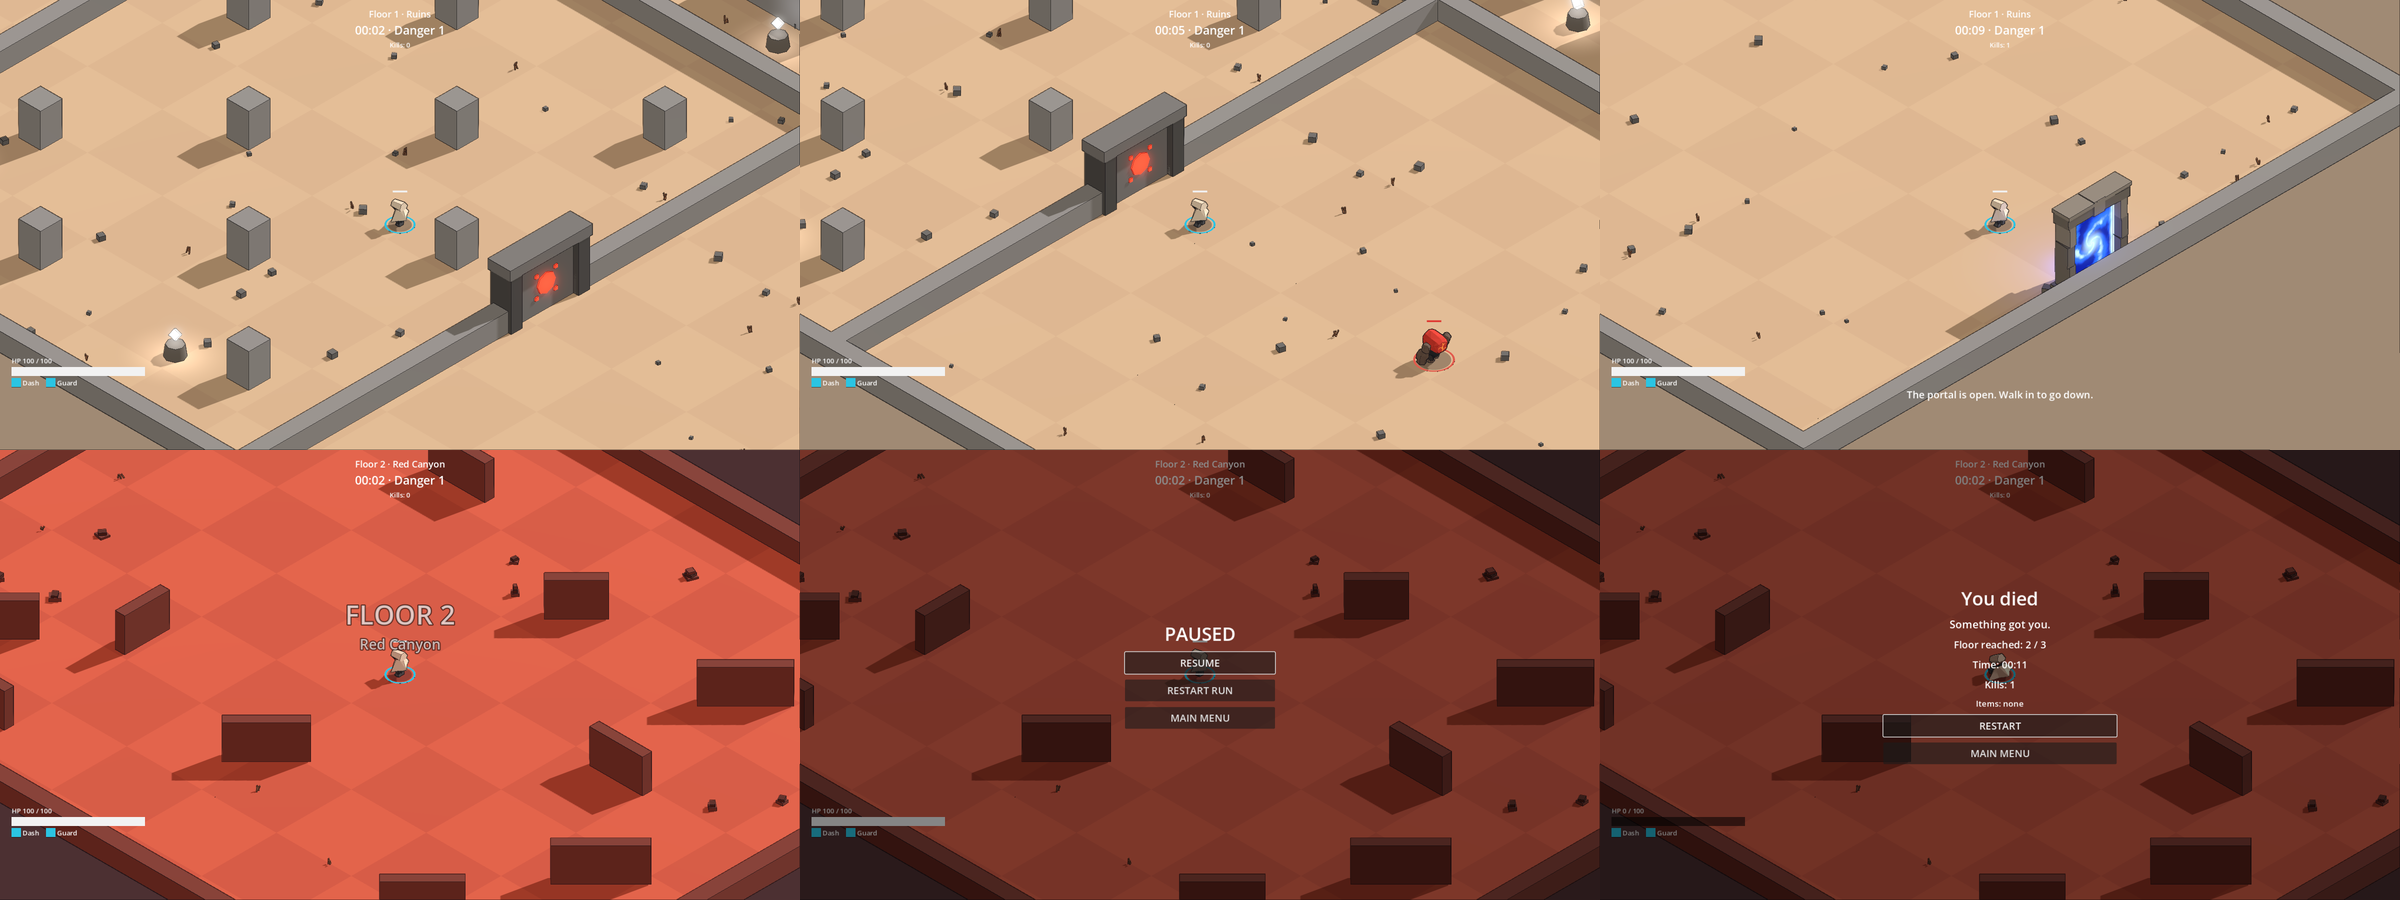
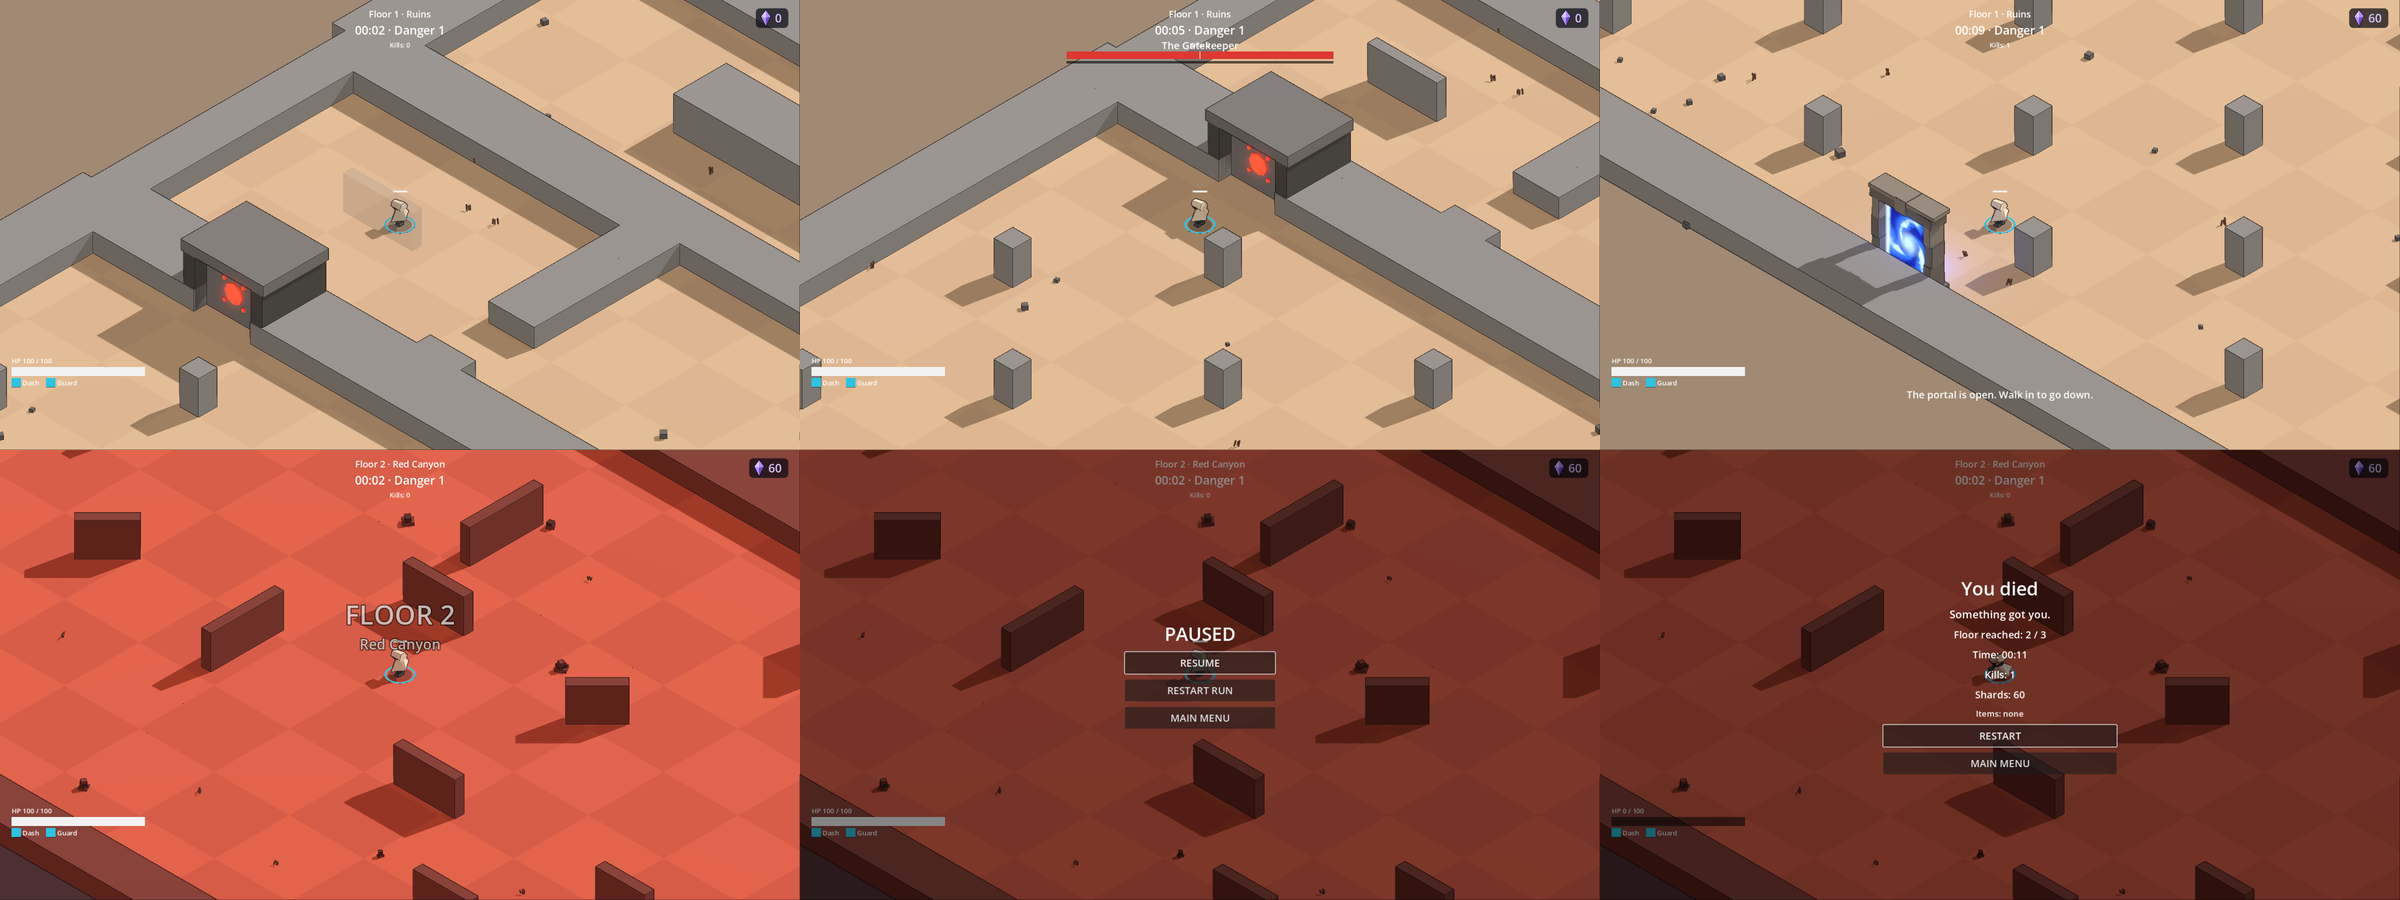
v0.3.0 Step B3: the run carries shards, items and combos; rewards and bosses per floor
Claude-Session: https://claude.ai/code/session_01Ybi1y9EcEtDzJ8CFycqiNq

diff --git a/docs/roadmap/v0.3.0/evidence/RUN_FLOW.md b/docs/roadmap/v0.3.0/evidence/RUN_FLOW.md
@@ -2,75 +2,94 @@
 
 Workstream B (owner lines L3–L4): a run of three floors, a sealed boss room off the farthest room, the portal
 that opens when the boss dies and takes you down, the floor HUD and title card, pause with Restart run, and the
-run recap. Built on the session branch from parent `0c44b40`; the commit that adds this file holds the code. The
-boss is C's: B codes against `World.spawn_boss` / `World.boss_alive` / `SimEvent.Kind.BOSS_DEFEATED`, with a
-stand-in (`src/sim/world/boss_stub.gd`, a Warden with ×12 HP) until C merges.
+run recap. This file covers the B commits on the session branch up to `v0.3.0 Step B3` (after merging A, N, G, C
+and E at `3161ae3`); the numbers below come from the working tree of that commit, Godot 4.7.2.stable.official,
+Linux cloud container, headless (timings are the container's, not the owner's hardware).
 
 Owner-only fields (feel, fun, whether the boss room reads as a boss room on their hardware): **OWNER ONLY**.
+
+## What B does now
+
+- **Run** (`src/sim/run/`): 3 floors (`data/run/three_floors.tres`); biome order shuffled per run (`biomes`
+  stream); floor 1 uses the run seed, floors 2–3 a seed derived from it; enemies and the floor's boss scaled
+  HP × (1 + 0.4 (f − 1)), damage × (1 + 0.2 (f − 1)) (bosses: every attack's damage; a boss's hatchlings and
+  turrets use the floor-scaled enemy tables); the danger tier restarts per floor.
+- **Carry** (`RunCarry.FIELDS`): `items_owned` (restored through `World.set_items_owned`: modifiers and combos, no
+  unlock events), `combos_owned`, `guard_charges`, `shards`; HP + 40 % of max, capped.
+- **Bosses (C's):** each floor draws its boss from its pool (`RunState.pick_boss`, a `boss_<f>` stream of the run
+  seed); the boss room takes the boss's arena (cells and template: Gatekeeper 3×3 pillars, Brood Mother 2×2
+  scatter, Siege Engine 3×1 lines). B's boss stub is deleted.
+- **Rewards (E's):** `FloorScenario.build(..., rewards, floor_index, arena, run, combos)`; altars and chests are
+  placed after the carry; the boss room has no item spots, so no reward stands in it; `World.floor_index` is set
+  per floor.
+- **Boss room** (`BossRoomBuilder`) follows A's wall-thickness model (see `WALLS.md`, "B2").
+- **Blink and the boss room:** `World.blink_may_land` — a blink may cross the boss room's boundary only through
+  the open doorway (a straight path that touches no wall), never while the door is sealed.
 
 ## Full suite
 
 ```
 $ bash scripts/verify.sh
 ...
-Totals
-------
-Scripts              67
-Tests               302
-Passing Tests       302
-Asserts           217576
-Time              127.436s
-
+Tests               466
+Passing Tests       466
+Asserts           402538
+Time              294.131s
 ---- All tests passed! ----
-
-Results saved to build/gut.xml
-check_gut_log: ok (302 passing, minimum 279)
+check_gut_log: ok (466 passing, minimum 436)
 ```
 
-From the same log, the boss-room builder over 200 seeds:
+From the same log:
 
 ```
-    boss rooms: 200 seeds, 164.9 ms per floor (generate + attach + checks), 5 hosted off another room
+    soak: 2 deaths, 11 hits, 5799 frames; nodes 372 -> 383
+    boss rooms: 200 seeds, 174.0 ms per floor (generate + attach + checks), 8 hosted off another room
 ```
 
-"5 hosted off another room": on 5 of 200 seeds no side of the farthest room had free cells for a 3 × 3 room, so
-the next farthest room hosts it (`BossRoomBuilder._hosts`).
-
-`tests/MIN_TEST_COUNT` raised from 279 to 302 after this run.
+"8 hosted off another room": on 8 of 200 seeds the farthest room had no side with free cells for a 3 × 3 room
+whose door fits, so the next farthest room hosts it. `tests/MIN_TEST_COUNT` 436 → 466.
 
 ## Lint
 
 ```
 $ gdformat --check src scripts tests && gdlint src scripts tests
-211 files would be left unchanged
+265 files would be left unchanged
 Success: no problems found
 ```
 
-## Export smoke
+## Export smoke and hitch probe
 
 ```
 $ bash scripts/ci/export_smoke.sh
 Export smoke check (exported pack)
   ok    running inside the exported pack (run from outside the project folder)
   ok    the main scene ships
-  ok    600-tick World run hash 921997d9e01c matches the project's
+  ok    600-tick World run hash 9c324d3dbf34 matches the project's
   ok    content player: 1
   ok    content biomes: 3
   ok    content validates inside the pack (0 errors)
-  ok    manifest hash b1a4ed8e89e8 matches the project's
+  ok    manifest hash de8d3c967621 matches the project's
   ok    Spanish translation is loaded
   ok    UI_PLAY is PLAY / JUGAR
   ok    the test framework is not shipped
   ok    tests are not shipped
 0 miss(es)
+$ godot --headless --path . -s scripts/checks/hitch_probe.gd
+hitch_probe: ticks after a 250 ms stall = 4 (limit 4, max seen 4), dash starts = 1 -> ok
 ```
 
 ## Goldens
 
-Unchanged. `tests/golden/fixtures/replay_ground_plane.json` and `export_smoke_hash.txt` both come from
-`KernelScenario`, which has no boss flow; the boss flow's state (and the floor number) is hashed only when a
-world has one, so the kernel hash did not move (the replay golden test passes, and the smoke hash above is still
-`921997d9e01c…`).
+Unchanged by B. Both come from `KernelScenario`, which has no boss flow (B's state is hashed only when a world has
+one):
+
+```
+$ godot --headless --path . -s tests/golden/generate_export_smoke_hash.gd
+GOLD| export_smoke_hash=9c324d3dbf34a7004e7649382382c67d592309bb2722342cf461afbc81fa17f2
+```
+
+Identical to `tests/golden/fixtures/export_smoke_hash.txt` (`git status tests/golden` clean); the replay fixture
+(final `5171fdad…`) was not regenerated and its test passes.
 
 ## Shots
 
@@ -86,24 +105,25 @@ run_flow: res://build/shots/v0.3.0/run_flow/6_run_recap.png
 run_flow: res://build/shots/v0.3.0/run_flow/run_flow_sheet.png 2400x900 ["1_boss_door_outside", "2_boss_door_sealed", "3_portal_active", "4_floor_2_title", "5_pause", "6_run_recap"]
 ```
 
-The sheet is [`run_flow.png`](run_flow.png) (a copy of `run_flow_sheet.png`, 566 KB). The shots were rendered
-before two later edits (gdformat's line wrapping, and `Main` taking a finished floor's nodes out of the tree at
-once so the next floor's HUD keeps the name `UI/Hud`); neither changes what is drawn.
-
-What the shots show (read by eye):
-1. Floor 1, Ruins: the boss door from 7.5 m outside — a stone slab between dark jambs under a lintel, red seal.
-2. Inside, the door shut behind you (seal lit), the stand-in boss (a Warden) up in the room.
-3. The boss dead: the gate's portal bright blue and swirling; the HUD note "The portal is open. Walk in to go down."
-4. Floor 2 (this seed: Red Canyon): the "FLOOR 2 / Red Canyon" card over the floor, the HUD line
-   "Floor 2 · Red Canyon".
+[`run_flow.png`](run_flow.png) is a copy of `run_flow_sheet.png` (581 KB). Read by eye:
+1. Floor 1, Ruins: the boss door from the host side — a stone slab with a red seal in a thick wall.
+2. Inside, the door shut behind you, the Gatekeeper's bar up ("The Gatekeeper"), the pillars arena. The boss's
+   body is not in this frame (it was rising or off-camera when the shot fired).
+3. The boss dead (60 shards paid, E): the gate's portal lit; the HUD note "The portal is open. Walk in to go down."
+4. Floor 2 (this seed: Red Canyon): the "FLOOR 2 / Red Canyon" card, "Floor 2 · Red Canyon", the 60 shards carried.
 5. The pause menu: Resume, Restart run, Main menu.
-6. The recap after a death on floor 2: "You died", the cause, "Floor reached: 2 / 3", time, kills, items. (The
-   script kills the player with a sourceless hit, so the cause reads "Something got you.")
+6. The recap after a death on floor 2: "You died", cause, floor reached 2 / 3, time, kills, shards 60, items.
+   (The script kills the player with a sourceless hit, so the cause reads "Something got you.")
+
+The script poses the run directly (it is a tool, not a test).
 
 ## Open
 
-- The boss is a stand-in until C merges (see `boss_stub.gd` for what C replaces).
-- Walls: the builder walls the boss room at the generator's current `wall_half` (0.4 m) and cuts the door out of
-  whatever wall lies on the shared line (keeping its thickness); A's per-wall thickness needs a check at
-  integration.
-- No night-rocks shot in this sheet (the seed's floor 2 drew Red Canyon); the Night Rocks props are untested by eye.
+- **The shared wall can be thicker than 2 × the host's half.** If another neighbour's outer wall reaches deeper
+  into the boss room's cells along the shared line, the boss room's half on that side is raised to clear it, so
+  the wall is the host's half plus that deeper half. The test checks it is at least the host's half on that side.
+- **8 of 200 seeds** put the boss room off a room other than the farthest. That happens when the farthest room
+  has no free side wide enough for the door.
+- No Night Rocks shot here (this seed's floor 2 drew Red Canyon); the Night Rocks props are unchecked by eye.
+- The run-flow e2e uses the dev panel's God mode for the walk and Kill boss for the fight; beating a boss by
+  play is C's e2e (`test_e2e_bosses.gd`).

diff --git a/docs/roadmap/v0.3.0/evidence/WALLS.md b/docs/roadmap/v0.3.0/evidence/WALLS.md
@@ -8,7 +8,8 @@ Owner lines: L1 ("you can't just blink every single wall", Q4 "By thickness vs r
 
 ## What changed
 
-- **Wall thickness.** Each room side draws its own *half* from 0.3–1.5 m (map stream): how far its face lies inside
+- **Wall thickness.** (Superseded by B2 below: halves now 0.3–2.5 m, walls 0.6–5.0 m.) Each room side draws its
+  own *half* from 0.3–1.5 m (map stream): how far its face lies inside
   its grid line. A partition is the two halves beside it, so 0.6–3.0 m thick; an outer wall is its room's half on
   both sides of the grid line (0.6–3.0 m). Room interiors stay rectangles (each side pulled in by its own half), and
   grid lines lie `cell size + 1.8 m` apart, so a one-cell room's interior averages the cell size. A wall's
@@ -151,3 +152,70 @@ hitch_probe: ticks after a 250 ms stall = 4 (limit 4, max seen 4), dash starts =
 `tests/MIN_TEST_COUNT` 279 → 287.
 
 Owner fields (how blinking through walls feels, whether thick walls read as thick in the game view): OWNER ONLY.
+
+
+## B2: room walls up to 5 m; the boss room follows the thickness model
+
+Owner decision (2026-10-07): **"Thicker room walls"** — keep the 5 m blink; room walls (outer and partitions)
+range 0.6–5.0 m, so the thickest can't be crossed even from point-blank and thin ones still can.
+`FloorParams.wall_half_max` 1.5 → **2.5** (a starting value); `wall_half_min` stays 0.3. Grid pitch is now
+`cell size + 2.8 m`. Built in the commits `v0.3.0 Step B2` … `v0.3.0 Step B3` on the B worktree (after merging A,
+N, G, C and E); numbers from that working tree, same container.
+
+From `bash scripts/verify.sh` (`build/gut.log`, raw):
+
+```
+    floor generation: 50 floors, mean 131.6 ms, max 262.5 ms, 11.14 rooms, 13.60 item spots, 51.4 interior pieces per floor; templates seen: bunkers, centre, colonnade, cross, diagonals, lines, open, pillars, scatter; footprints seen: 9
+    nav field on 5 floors: mean 52007 cells, build 107.8 ms, flood 7.3 ms
+    walls and doorways over 50 floors (576 doorways): wall thickness at doorways 0.74-4.97 m, door width 2.20-3.40 m, 444 doorways more than 1 m off the middle of the shared stretch; cell size x 11.00-13.97 m, y 9.01-10.95 m
+    blink 5.0 m crosses a wall of thickness: 0.5 m: face <= 4.1 m; 0.6 m: face <= 4.0 m; 1.0 m: face <= 3.6 m; 1.5 m: face <= 3.1 m; 2.0 m: face <= 2.6 m; 2.5 m: face <= 2.1 m; 3.0 m: face <= 1.6 m; 3.5 m: face <= 1.1 m; 4.0 m: face <= 0.6 m; 4.5 m: never; 5.0 m: never
+    blinks on floors: 3592, through a room wall 59, through cover only 454, stopped short 1174
+```
+
+- **Point-blank table:** pressed against a wall (face 0.36 m away) the blink crosses walls up to 4.3 m thick; a
+  4.5 m or 5.0 m wall is never crossed. New test `test_the_thickest_room_wall_holds_even_from_point_blank` (a
+  5.0 m wall, face 0.36 m away: the blink stays on this side). The table now runs to 5.0 m.
+- **Generation timing (50 seeds):** mean 131.6 ms, max 262.5 ms (A's step reported 111.7 / 269.6 ms at 0.3–1.5 m
+  halves; same container, other load). NavField: 52 007 cells on average (44 181 before: the floors are larger),
+  build 107.8 ms once per floor, flood 7.3 ms every 10 ticks.
+- `test_fast_nav_field_matches_the_reference` passes (fast build and flood equal the reference).
+- Blinks through a room wall on the floor sweep fell 124 → 59 of 3592 (thicker walls).
+
+**The boss room (B).** `BossRoomBuilder` draws its four halves from the same range (`boss_room` stream). The side
+it shares with the host keeps the host's half, so the host's outer skin becomes its frame and the shared wall is
+twice that half. A side is thickened where a neighbour's skin reaches further into its cells. It adds its frame
+strips and outer skins where no wall stands yet. The door is cut through the full thickness: `door_depths` is face
+to face, and the seal collider fills the whole passage. Its cells and new skins join `FloorLayout.ground`. Tests:
+A's walled-all-round check (just outside each face, and deep in the wall at its half less 2 cm) is applied to the
+host and the boss room over 200 seeds plus 4 arena specs. Also checked: no structural wall inside the boss room or
+its door, halves in range, ground under it. Blink can't enter it except through the open door, and can't leave or
+enter it while it is sealed (`test_run_flow.gd`).
+
+Top-down render (`scripts/shots/floor_map.gd` now attaches the default boss room, outlined in red, its seal in
+orange):
+
+```
+$ godot --headless --path . -s scripts/shots/floor_map.gd -- 1 2 3
+seed 1: cell 13.16 x 10.43 m, 12 rooms, 13 doorways, 96 walls, 61 interior pieces, 148.6 x 124.1 m, portal room 11 (5 hops), 13 item spots, 133 spawn points, generated in 128.2 ms
+  rooms (cells): 3x3, 1x2, 2x1, 1x1, 1x1, 1x1, 2x3, 2x2, 1x1, 1x1, 3x1, 3x3
+  templates: cross, colonnade, lines, diagonals, centre, cross, centre, pillars, pillars, pillars, lines, open
+  doorways (width x wall thickness, m): 3.26 x 2.67, 2.92 x 3.41, 2.35 x 2.71, 2.37 x 1.10, 2.23 x 4.11, 2.63 x 2.13, 2.93 x 3.52, 2.89 x 1.88, 3.38 x 1.62, 2.62 x 3.15, 2.80 x 1.93, 2.42 x 2.21, 3.00 x 3.40
+  boss room 11: 3x3 cells off room 8, halves 0.90/1.70/0.78/0.60 m, door 3.00 x 3.40 m, attached in 1.3 ms
+seed 2: cell 13.05 x 9.29 m, 13 rooms, 13 doorways, 107 walls, 51 interior pieces, 147.7 x 113.8 m, portal room 12 (6 hops), 16 item spots, 133 spawn points, generated in 106.0 ms
+  rooms (cells): 3x3, 1x3, 2x1, 1x1, 2x1, 2x1, 1x1, 1x2, 1x1, 2x1, 2x2, 1x2, 3x3
+  templates: scatter, colonnade, scatter, open, bunkers, pillars, scatter, pillars, diagonals, diagonals, bunkers, centre, open
+  doorways (width x wall thickness, m): 2.42 x 0.95, 2.78 x 3.37, 3.22 x 3.10, 2.54 x 3.27, 2.30 x 2.66, 2.43 x 1.94, 2.26 x 3.48, 3.34 x 1.97, 3.05 x 4.33, 3.31 x 3.38, 2.57 x 4.17, 3.26 x 3.46, 3.00 x 0.66
+  boss room 12: 3x3 cells off room 9, halves 0.82/0.33/0.78/1.65 m, door 3.00 x 0.66 m, attached in 1.4 ms
+seed 3: cell 13.85 x 10.41 m, 11 rooms, 12 doorways, 95 walls, 102 interior pieces, 138.2 x 123.9 m, portal room 10 (5 hops), 12 item spots, 144 spawn points, generated in 457.9 ms
+  rooms (cells): 3x3, 1x2, 3x1, 1x1, 1x1, 1x2, 1x1, 2x1, 1x2, 3x3, 3x3
+  templates: diagonals, diagonals, lines, open, colonnade, colonnade, open, centre, centre, diagonals, open
+  doorways (width x wall thickness, m): 3.22 x 2.46, 2.61 x 4.94, 3.18 x 1.86, 3.34 x 2.50, 3.09 x 2.93, 3.27 x 3.88, 2.73 x 3.29, 3.21 x 2.50, 2.60 x 3.63, 2.20 x 4.10, 2.23 x 4.15, 3.00 x 3.34
+  boss room 10: 3x3 cells off room 5, halves 1.80/0.70/0.82/1.67 m, door 3.00 x 3.34 m, attached in 1.7 ms
+floor tints: open = light grey, scatter = sand, pillars = blue, centre = pink, cross = green, lines = yellow, bunkers = teal, colonnade = salmon, diagonals = lavender
+wrote res://build/floors/floor_layouts.png (3631x1040): OK
+```
+
+`build/floors/floor_layouts.png` copied by hand to [`walls_floor_map.png`](walls_floor_map.png) (replaces A's
+render).
+
+Goldens: unchanged (export smoke `9c324d3d…` regenerated identical; replay final `5171fdad…` passes).
